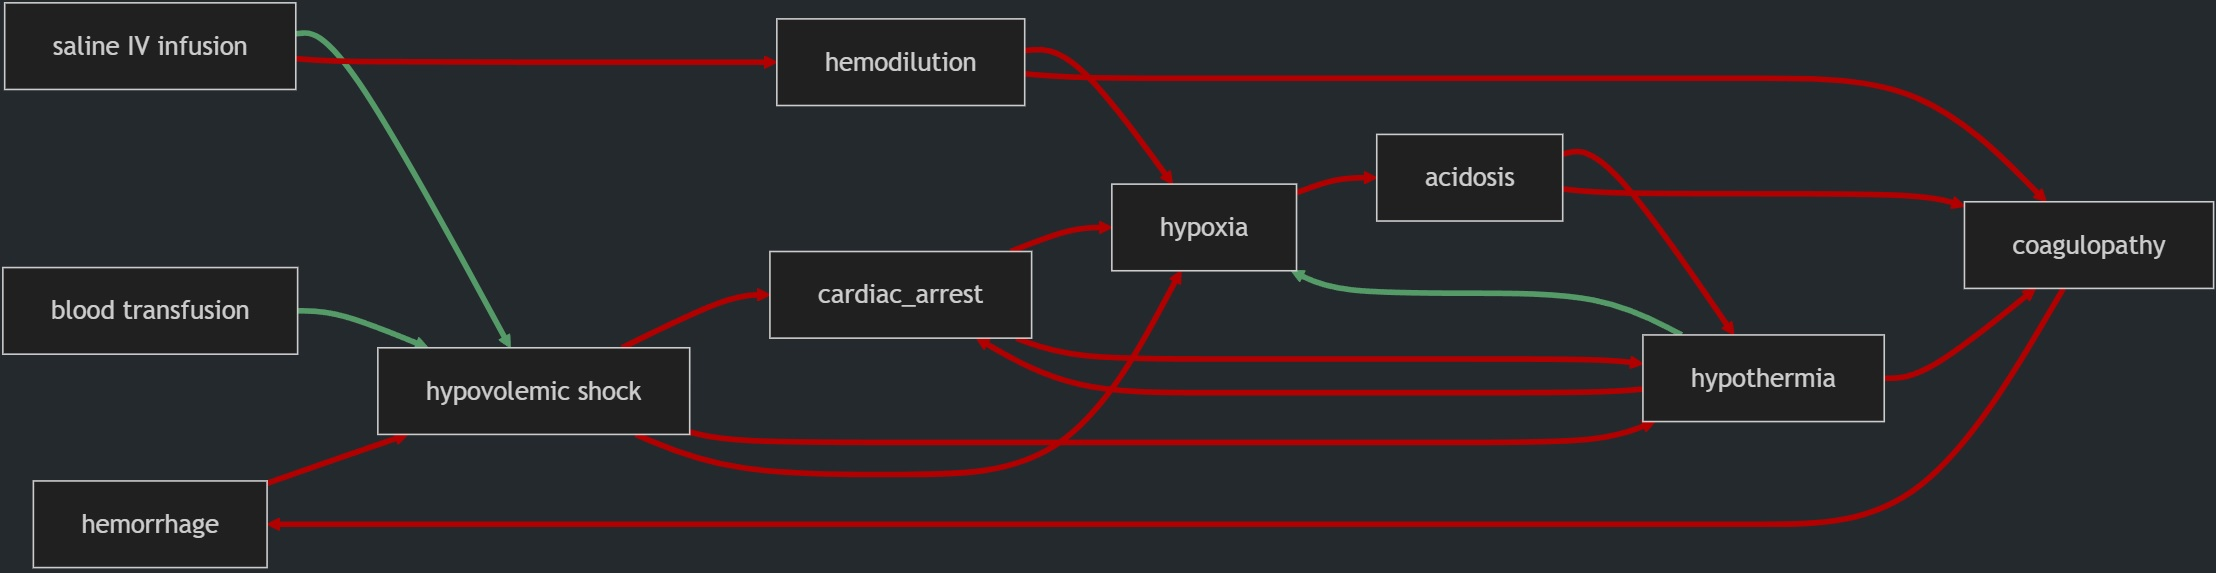
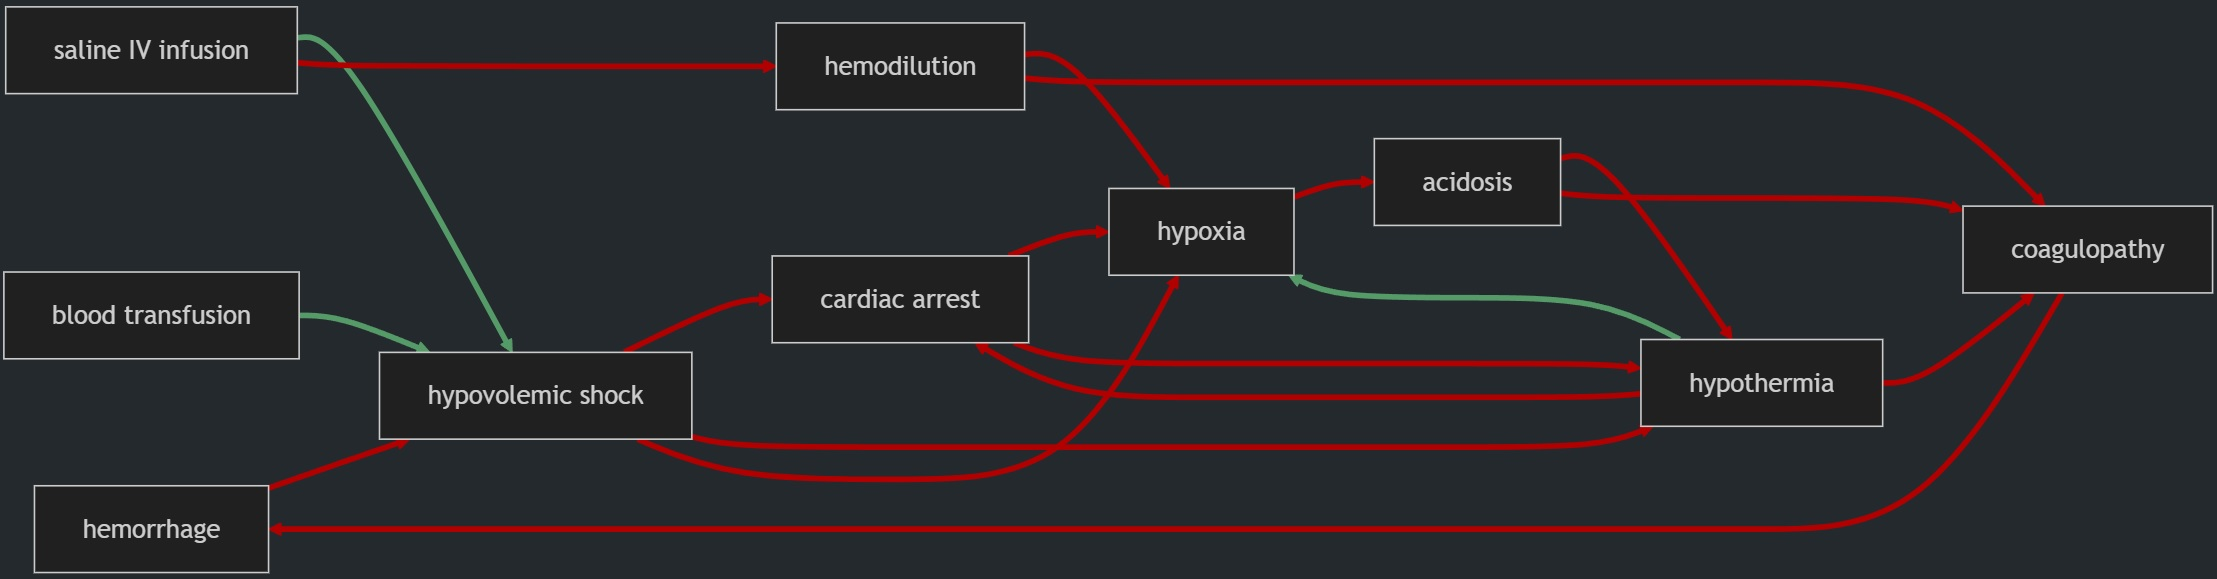
update steam workshop.txt

diff --git a/steam/workshop.md b/steam/workshop.md
@@ -6,14 +6,13 @@ Overhaul RimWorld's medical system with deeper injury simulation, cascading comp
 
 More Injuries adds a wide variety of new injuries, treatments, and complications that interact in complex ways, creating realistic medical challenges and high-stakes emergencies. It also expands the simulation with finer-grained body parts, new surgeries, medical equipment, and research - all fully customizable through mod settings.
 
-This is a fully reworked and expanded version of the [original pre-1.5 More Injuries mod](https://steamcommunity.com/sharedfiles/filedetails/?id=2892012512), featuring numerous fixes and additions.
+This is a fully reworked and expanded version of the [original pre-1.5 More Injuries mod](https://steamcommunity.com/sharedfiles/filedetails/?id=2892012512).
 
 ![Features](https://raw.githubusercontent.com/frederik-hoeft/rimworld-more-injuries/refs/heads/main/steam/assets/headers/Header_Features.png)
 
-![simulation](https://raw.githubusercontent.com/frederik-hoeft/rimworld-more-injuries/refs/heads/main/steam/assets/simulation.png)
-*An illustration of the pathophysiological model used for injury simulation in More Injuries*
+![simulation](https://raw.githubusercontent.com/frederik-hoeft/rimworld-more-injuries/refs/heads/main/steam/assets/simulation.jpg)
 
-Below is a selection of key features and conditions. For the complete list, along with detailed explanations and treatment options, please visit the [More Injuries Wiki on GitHub](https://github.com/frederik-hoeft/rimworld-more-injuries/wiki).
+Below is a selection of key features and conditions. For the complete list, along with detailed explanations and treatment options, please visit the [More Injuries Wiki on GitHub](https://github.com/frederik-hoeft/rimworld-more-injuries/blob/main/docs/wiki/README.md).
 
 New Injuries and Medical Conditions (excerpt):
 - [Acidosis](https://github.com/frederik-hoeft/rimworld-more-injuries/blob/main/docs/wiki/injuries/acidosis.md#acidosis)
@@ -68,7 +67,7 @@ We are always looking for new contributions to the mod who want to help make it 
 
 ### Like what you see?
 
-If you enjoy this mod and want to support its development, consider leaving a like in the Steam Workshop and a star on GitHub!
+If you enjoy this mod and want to support its development, consider leaving a like in the Steam Workshop and a star on [GitHub](https://github.com/frederik-hoeft/rimworld-more-injuries)!
 
 ![Credits](https://raw.githubusercontent.com/frederik-hoeft/rimworld-more-injuries/refs/heads/main/steam/assets/headers/Header_Credits.png)
 
